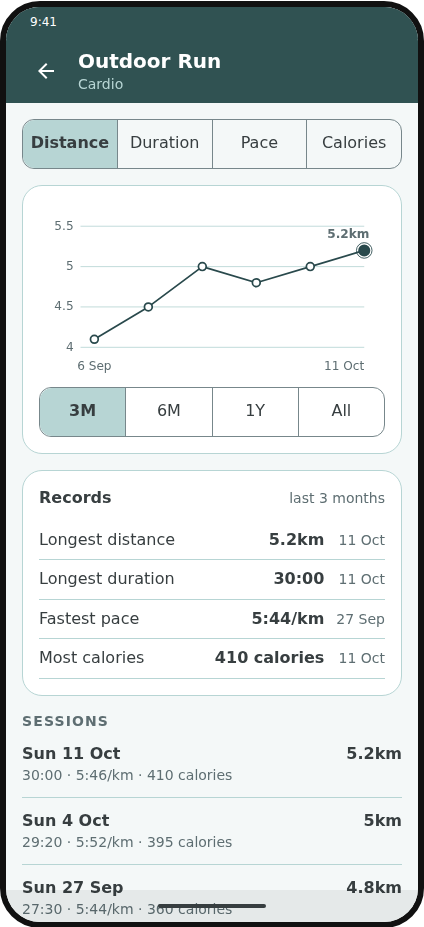
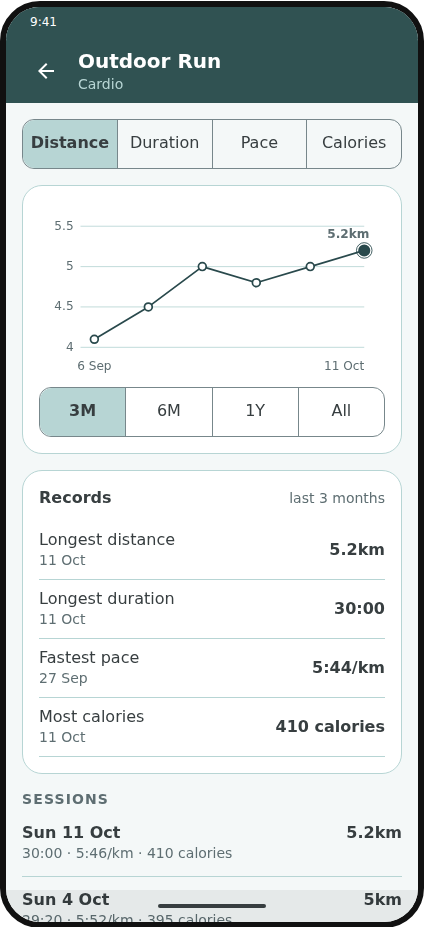
ci(stories): check screen stories in the layout check (#292)
* ci(stories): check screen stories in the layout check

* ci(stories): address review findings in the layout check

* fix(ui): fit screen stories at the narrowest phone

* docs(ui): describe the stacked import buttons and records date layout

---------

diff --git a/src/WorkoutLog.UI/Components/Lists/RecordsCard.razor.css b/src/WorkoutLog.UI/Components/Lists/RecordsCard.razor.css
@@ -1,7 +1,7 @@
-/* One grid for every row, so values and dates line up. */
+/* One grid for every row, so values line up; the date sits under the label so a long label keeps its line. */
 .rows {
     display: grid;
-    grid-template-columns: 1fr auto auto;
+    grid-template-columns: 1fr auto;
     column-gap: var(--space-3);
     margin: 0;
 }
@@ -10,7 +10,8 @@
     display: grid;
     grid-column: 1 / -1;
     grid-template-columns: subgrid;
-    align-items: baseline;
+    grid-template-areas: "label value" "date value";
+    align-items: center;
     padding: var(--space-2) 0;
     border-bottom: var(--border-width) solid var(--color-border);
 }
@@ -21,14 +22,19 @@
     margin: 0;
 }
 
+.label {
+    grid-area: label;
+}
+
 .value {
+    grid-area: value;
     font-weight: var(--font-weight-bold);
     font-variant-numeric: tabular-nums;
     text-align: right;
 }
 
 .date {
+    grid-area: date;
     color: var(--color-text-muted);
     font-size: var(--font-size-sm);
-    text-align: right;
 }

diff --git a/src/WorkoutLog.UI/Screens/ImportReviewView.razor.css b/src/WorkoutLog.UI/Screens/ImportReviewView.razor.css
@@ -23,3 +23,14 @@
     grid-template-columns: 1fr 1fr;
     gap: var(--space-3);
 }
+
+/* Two buttons side by side. In the file-error state they stack, because "Choose another file" doesn't fit beside Cancel at phone width. */
+.actions {
+    display: flex;
+    flex: 1;
+    gap: var(--space-3);
+}
+
+.stacked {
+    flex-direction: column;
+}

diff --git a/src/WorkoutLog.UI/Components/Workout/SetGrid.cs b/src/WorkoutLog.UI/Components/Workout/SetGrid.cs
@@ -17,12 +17,12 @@ internal static class SetGrid
     /// <summary>True when a header label has no room for its unit: the Last column or a duration beside another field leaves a field one narrow column at the narrowest card. The field's own label still names the unit.</summary>
     public static bool ShortHeaders(IReadOnlyList<FieldSpec> fields, bool hasLast) => hasLast || LastBelow(fields);
 
-    /// <summary>CSS grid-template-columns: set number, the Last column when <see cref="LastColumn"/>, one column per field, remove button.</summary>
+    /// <summary>CSS grid-template-columns: set number, the Last column when <see cref="LastColumn"/> (the kit's aside width plus a gap, so 25kg×10 fits at the narrowest card), one column per field, remove button.</summary>
     public static string Columns(IReadOnlyList<FieldSpec> fields, bool hasLast)
     {
         var lastColumn = LastColumn(fields, hasLast);
         var fieldColumns = fields.Select(_ => "minmax(0, 1fr)");
-        var last = lastColumn ? "var(--entry-grid-aside-width) " : null;
+        var last = lastColumn ? "calc(var(--entry-grid-aside-width) + var(--space-2)) " : null;
         return $"var(--entry-grid-index-width) {last}{string.Join(' ', fieldColumns)} var(--touch-target)";
     }
 }

diff --git a/tests/WorkoutLog.UI.Tests/Components/Workout/SetGridTests.cs b/tests/WorkoutLog.UI.Tests/Components/Workout/SetGridTests.cs
@@ -50,8 +50,8 @@ public class SetGridTests
     {
         Assert.Multiple(() =>
         {
-            Assert.That(SetGrid.Columns([Weight, Reps], true), Is.EqualTo("var(--entry-grid-index-width) var(--entry-grid-aside-width) minmax(0, 1fr) minmax(0, 1fr) var(--touch-target)"));
-            Assert.That(SetGrid.Columns([Reps], true), Is.EqualTo("var(--entry-grid-index-width) var(--entry-grid-aside-width) minmax(0, 1fr) var(--touch-target)"));
+            Assert.That(SetGrid.Columns([Weight, Reps], true), Is.EqualTo("var(--entry-grid-index-width) calc(var(--entry-grid-aside-width) + var(--space-2)) minmax(0, 1fr) minmax(0, 1fr) var(--touch-target)"));
+            Assert.That(SetGrid.Columns([Reps], true), Is.EqualTo("var(--entry-grid-index-width) calc(var(--entry-grid-aside-width) + var(--space-2)) minmax(0, 1fr) var(--touch-target)"));
         });
     }
 

diff --git a/tests/WorkoutLog.UI.Tests/Components/Workout/ExerciseCardTests.cs b/tests/WorkoutLog.UI.Tests/Components/Workout/ExerciseCardTests.cs
@@ -1445,7 +1445,7 @@ public class ExerciseCardTests : ComponentTestBase
             Assert.That(LastColumn(cut), Is.EqualTo(new[] { "Last time 62.5×6" }));
             Assert.That(cut.Find("[data-testid=exercise-1-set-3-last]").TextContent, Is.EqualTo("Last time 62.5×6"));
             Assert.That(cut.Find(".set-header").GetAttribute("style"),
-                Is.EqualTo("grid-template-columns: var(--entry-grid-index-width) var(--entry-grid-aside-width) minmax(0, 1fr) minmax(0, 1fr) var(--touch-target)"));
+                Is.EqualTo("grid-template-columns: var(--entry-grid-index-width) calc(var(--entry-grid-aside-width) + var(--space-2)) minmax(0, 1fr) minmax(0, 1fr) var(--touch-target)"));
         });
     }
 

diff --git a/tests/WorkoutLog.UI.Tests/Components/Workout/SetRowTests.cs b/tests/WorkoutLog.UI.Tests/Components/Workout/SetRowTests.cs
@@ -71,7 +71,7 @@ public class SetRowTests : ComponentTestBase
             Assert.That(cut.Find("[data-testid=set-1-last]").TextContent, Is.EqualTo($"Last time {last}"));
             Assert.That(cut.Find(".last .visually-hidden").TextContent, Is.EqualTo("Last time "));
             Assert.That(cut.Find(".set-row").GetAttribute("style"),
-                Is.EqualTo("grid-template-columns: var(--entry-grid-index-width) var(--entry-grid-aside-width) minmax(0, 1fr) minmax(0, 1fr) var(--touch-target)"));
+                Is.EqualTo("grid-template-columns: var(--entry-grid-index-width) calc(var(--entry-grid-aside-width) + var(--space-2)) minmax(0, 1fr) minmax(0, 1fr) var(--touch-target)"));
         });
     }
 

diff --git a/docs/dev-setup-build.md b/docs/dev-setup-build.md
@@ -21,6 +21,13 @@ This repo holds no custom UI elements. Every general component, style and token 
 
 To try a kit change before it is released, clone app-ui-kit and build against its source: `dotnet build WorkoutLog.slnx -p:UseKitSource=true -p:KitPath=<absolute path of the clone>` (the same switch works for `dotnet test` and `dotnet run`). The packages are left alone and the lock files are not touched.
 
+### Story layout
+With the stories running, `node .github/scripts/check-story-layout.mjs http://localhost:5056 <chrome> [scope ...]` opens each story in headless Chrome and fails on content that clips, overflows, runs past the edge or wraps (text allowed to wrap carries `data-wrap-ok`). A scope is a story-title prefix; `Screens/` means `Workout Log/Screens/`. With no scope it checks `Components/Workout/`. CI's `story-layout` job runs two scopes:
+- **Default (`Components/Workout/`)**: a 424px page. The preview adds 96px around the card, so the card is 328px wide, the narrowest card (a 360dp phone less 16px side padding).
+- **`Screens/`**: screen stories show the kit's phone frame (a 412px viewport, 424px with its bezel) plus preview padding, which a 424px page cannot hold. The script loads these on a 480px page, sets the kit's `--stories-phone-width` to 360px, and measures only the content inside the phone, against the phone's width: a card there is 328px, the same as the default scope. A screen that clips, overflows or wraps at the narrowest phone fails even though it fits the 412px frame.
+
+The script fails too when the card is not 328px or the frame is not 360px, which means the kit's preview layout changed. The scope and measure rules are in `.github/scripts/story-layout-scopes.mjs`, tested by `story-layout-scopes-test.sh`.
+
 ### README screenshots
 `README.md` shows screen stories, light and dark, from `docs/images/readme/`. Run the stories, then `node .github/scripts/readme-screenshots.mjs http://localhost:5056 <chrome>` retakes every row below: it opens `iframe.html?id=<story id>` in each colour scheme and saves the `.phone` element to `<file>-light.png` and `<file>-dark.png`. With `--check` it writes nothing and fails when a committed screenshot differs from its story by more than 0.01% of its pixels (about 40 of the 398,000 in a 428x931 screen), counting a pixel only when its colour moved by more than 24 (the summed absolute difference of its red, green, blue and alpha values, each 0 to 255), so a uniform token shift of 24 or less passes and anything larger is counted. Measured locally with Chrome 1255: two runs of the same story differ by 0 pixels, and changing one letter of a header word ("Workout Log" to "Workout Lab") changes 252 pixels in the light screenshot and 253 in the dark one, so a one-word edit fails. CI's `google-chrome` may render differently from that build; the `story-layout` run on the PR is the cross-build check, and the threshold is tuned there if it flags an unchanged screen. The comparison is `.github/scripts/screenshot-diff.mjs`, tested by `screenshot-diff-test.sh`. CI runs the check in `story-layout`; when it fails, the job's `readme-screenshots` artifact holds the retaken images. A screen that changes look retakes its screenshots in the same PR. To add a screenshot, add a row here and to the README; the script reads this table.
 

diff --git a/AGENTS.md b/AGENTS.md
@@ -10,7 +10,7 @@ Personal Android app (.NET 11 MAUI Blazor Hybrid). Setup: [docs/dev-setup-build.
 - E2E (needs a device; a plain `dotnet test` skips them): build the App, then `dotnet test tests/WorkoutLog.E2E.Tests --filter "Category=smoke"`
 - E2E without a device (Linux): `.github/scripts/e2e-local.sh "<filter for what you changed>"` boots an emulator, runs the filter, tears it down; exit 2 means skipped, so say the tests did not run ([details](docs/dev-setup-linux.md#throwaway-emulator-for-agents)). The full suite is CI-only (8 shards); one emulator takes an hour. The script refuses a broad filter, more than 15 scenarios or a run over 10 minutes; `E2E_ALLOW_BROAD=1` is the deliberate opt-in.
 - Red emulator shard: read the job summary's `infra` or `test` verdict (`classify-shard-failure.sh`). Rerun the failed job once, and only on `infra`. On `test`, or when the rerun fails too, fix the cause instead ([rule](docs/e2e-tests.md#a-red-emulator-shard)).
-- Story layout (needs Chrome and the stories running): `node .github/scripts/check-story-layout.mjs http://localhost:5056 <chrome>` fails on clipped, overflowing or wrapping story content at the narrowest card; CI runs it as `story-layout`, and `data-wrap-ok` marks text allowed to wrap.
+- Story layout (needs Chrome and the stories running): `node .github/scripts/check-story-layout.mjs http://localhost:5056 <chrome> [Screens/ ...]` fails on clipped, overflowing or wrapping story content at the narrowest card; CI runs the default scope (`Components/Workout/`, measured on the whole page at 424px) and `Screens/` (measured inside the kit's phone frame narrowed to 360px) as `story-layout`, and `data-wrap-ok` marks text allowed to wrap ([details](docs/dev-setup-build.md#story-layout)).
 - README screenshots (needs Chrome and the stories running): `node .github/scripts/readme-screenshots.mjs http://localhost:5056 <chrome>` retakes every screenshot in the [README table](docs/dev-setup-build.md#readme-screenshots), light and dark; `--check` fails on any that no longer match their story: more than 0.01% of pixels (about 40 of 398,000) whose colour moved by more than 24 (summed RGBA difference), so a one-word text change fails (252 pixels measured) while an unchanged screen differs by 0 locally; CI's Chrome may differ, so the PR's `story-layout` run is the cross-build check (measurements in the same section). CI runs the check in `story-layout` and uploads retaken images as the `readme-screenshots` artifact when it fails.
 - CI lint (needs `shellcheck`): `.github/scripts/lint-ci.sh` runs shellcheck over the scripts and actionlint over the workflows; CI runs it in `dev / build-and-test`.
 - Docs: `python3 -I .github/scripts/check-docs.py` fails on a relative link or `#anchor` in a tracked `*.md` that doesn't resolve, or a README screenshot and its table row that don't match; CI runs it in `dev / build-and-test`.

diff --git a/src/WorkoutLog.UI.Stories/Stories/Screens/ImportReview.md b/src/WorkoutLog.UI.Stories/Stories/Screens/ImportReview.md
@@ -19,7 +19,7 @@ Opened from Settings after a file is picked and read. View: `ImportReviewView`; 
 | Replace confirm | `ConfirmDialog` "Delete your 41 workouts and import 44?" with **Cancel** and Danger **Replace**, also with 0 on the phone. |
 | Importing | Import is busy: a spinner beside "Importing…". Cancel and the choices are disabled; taps and back are ignored. |
 | Import failed | "Couldn't import your workouts. Try again" above the bottom bar. Nothing is written. Focus moves to Import. |
-| File errors | Instead of the count and the choices: "This file isn't a Workout Log export"; "This file is from a newer version of Workout Log. Update the app to import it"; "This file has no workouts"; "This file is too large to import". The bottom bar has **Cancel** and Primary **Choose another file**. |
+| File errors | Instead of the count and the choices: "This file isn't a Workout Log export"; "This file is from a newer version of Workout Log. Update the app to import it"; "This file has no workouts"; "This file is too large to import". The bottom bar has **Cancel** and Primary **Choose another file**, stacked on their own rows. |
 | Reading another file | Choose another file is busy: "Reading…". Cancel and back still work. Cancelling the picker keeps the error. If the picker or the read fails, "Couldn't import your workouts. Try again" replaces the error. |
 
 Import writes in one transaction, then goes back to Settings with its message. Back and Cancel go back to Settings with no prompt. An open dialog closes on back.

diff --git a/src/WorkoutLog.UI.Stories/Stories/Components/Workout/Workout.md b/src/WorkoutLog.UI.Stories/Stories/Components/Workout/Workout.md
@@ -33,7 +33,7 @@ The note an exercise had in the last saved workout with it: one muted line, the 
 
 ## `SetRow`
 One set on one row: number, a box per field, remove (`IconButton` Close, muted, small). Column headers come from the card. With `IsRecord`, a `RecordBadge` shows under the row, in line with the fields.
-- With `Last`, a muted small text after the number in a Last column the width of a field box: last time's set as the Exercise page writes it, e.g. *60×8*, *25kg×10*; *—* when last time had no set with that number (the caller passes it). Read out as "Last time 60×8".
+- With `Last`, a muted small text after the number in a Last column a little wider than the kit's aside width: last time's set as the Exercise page writes it, e.g. *60×8*, *25kg×10*; *—* when last time had no set with that number (the caller passes it). Read out as "Last time 60×8".
 - With `Last` on a row with a duration (a hold), no column: a muted small full-width line under the row, indented past the number: *Last time 1:30*, or *Last time 12.5kg · 1:30* when a weight was logged. The row's boxes keep the width they have without last time. The caller passes null for a set number last time didn't have, so no line shows.
 - `data-testid`: `TestId`, `{TestId}-last`, `{TestId}-{field}`, `{TestId}-remove`, `{TestId}-record`, `{TestId}-error`.
 

diff --git a/src/WorkoutLog.UI.Stories/Stories/Components/Lists/Lists.md b/src/WorkoutLog.UI.Stories/Stories/Components/Lists/Lists.md
@@ -5,7 +5,7 @@ $attribute: CustomPage(StoryTitles.Prefix + "/Components/Lists/Overview")
 # Lists
 
 ## `RecordsCard`
-A kit `Card` titled "Records" with the range as its aside at the right, e.g. *last 3 months*. One row per `RecordRow`: label, value in bold and date, muted. A record with no value shows "—" and no date.
+A kit `Card` titled "Records" with the range as its aside at the right, e.g. *last 3 months*. One row per `RecordRow`: the label with the date muted under it, and the value in bold on the right. A record with no value shows "—" and no date.
 - `data-testid`: `TestId`.
 
 ## `SessionRow`
